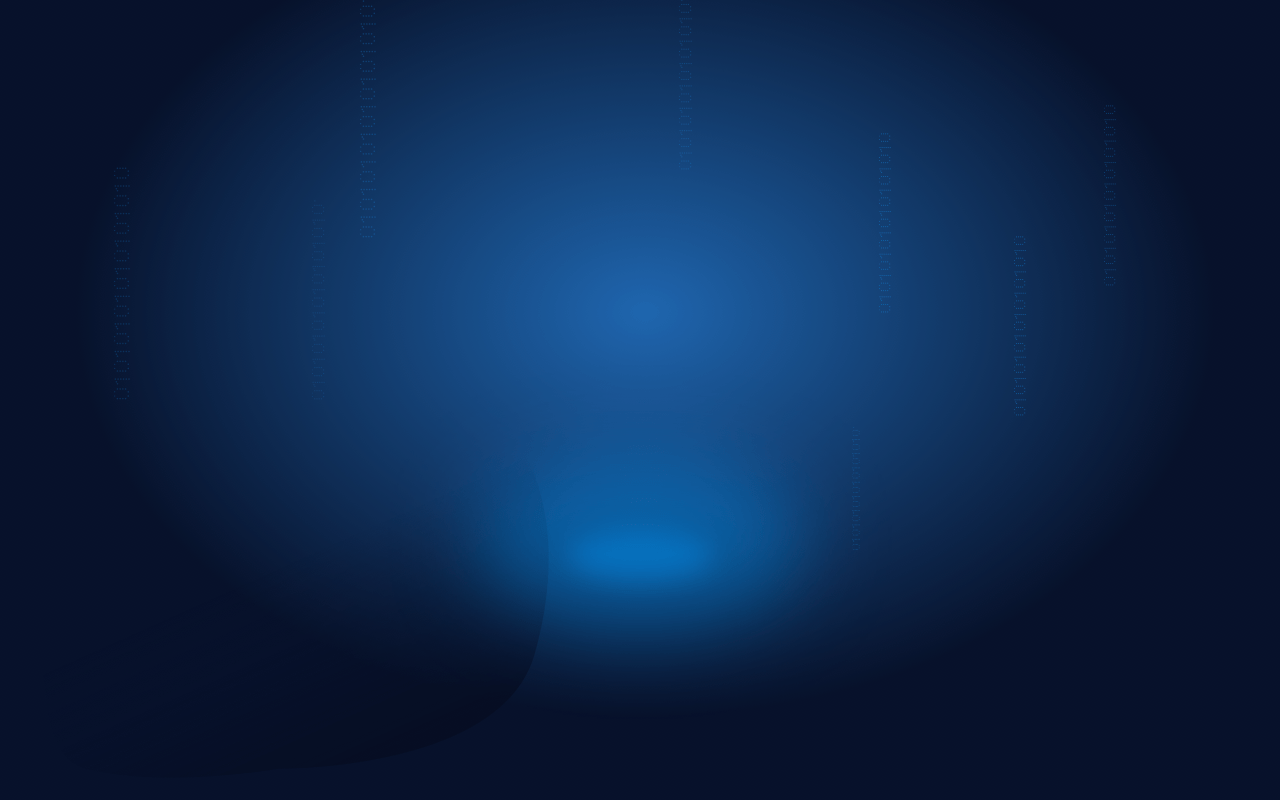
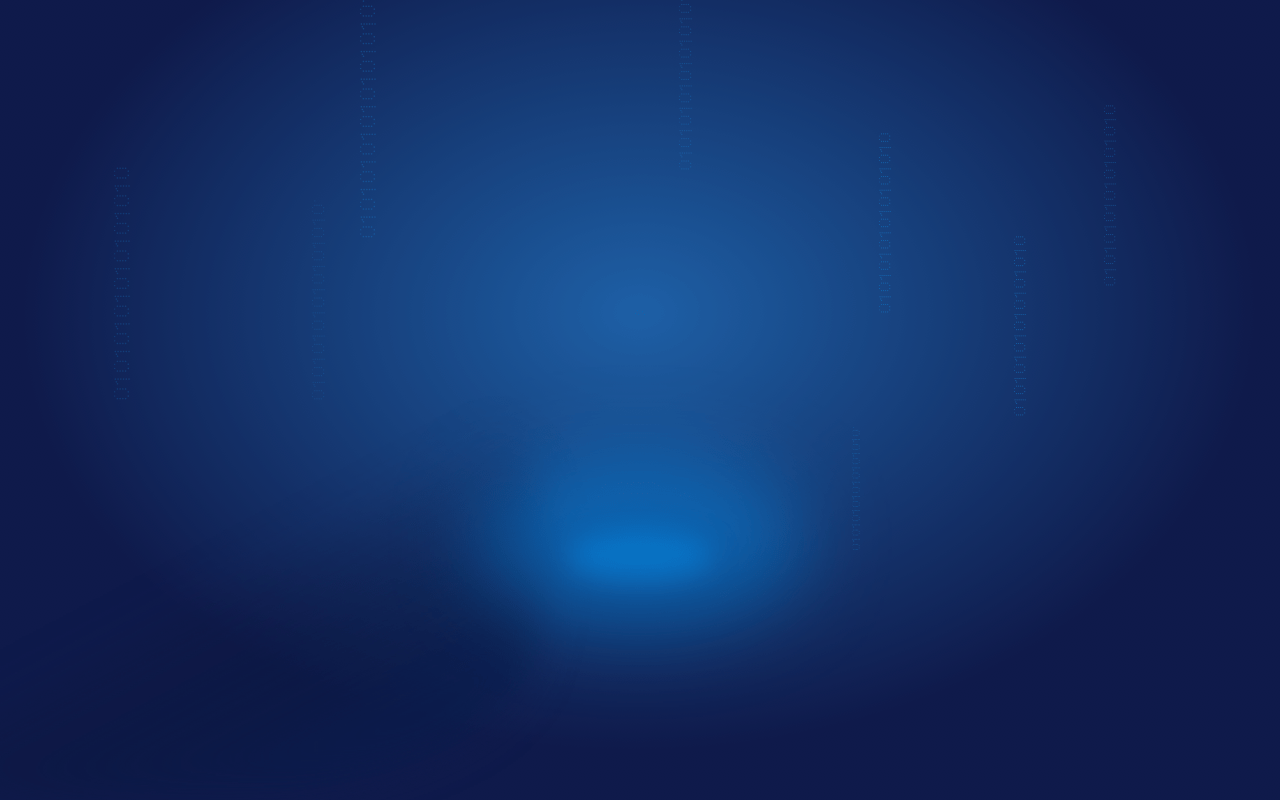
no message

diff --git a/ThreeLogin/js/ThreeLoginBackground.js b/ThreeLogin/js/ThreeLoginBackground.js
@@ -71,17 +71,17 @@ function ThreeLoginBackground($canvas) {
     function getWords(){
 		if(I.words == null){
 			I.words = [
-				{pic: 'login_font_api.svg' },
-				{pic: 'login_font_baojia.svg' },
-				{pic: 'login_font_dizhiku.svg' },
-				{pic: 'login_font_gpsgenzong.svg' },
-				{pic: 'login_font_jiagemoxing.svg' },
-				{pic: 'login_font_kaifangpingtai.svg' },
-				{pic: 'login_font_paidan.svg' },
-				{pic: 'login_font_paixian.svg' },
-				{pic: 'login_font_qiyezhanghu.svg' },
-				{pic: 'login_font_xinyongmoxing.svg' },
-				{pic: 'login_font_zhinengpeizai.svg' }
+				{pic: 'login_font_api.png' },
+				{pic: 'login_font_baojia.png' },
+				{pic: 'login_font_dizhiku.png' },
+				{pic: 'login_font_gpsgenzong.png' },
+				{pic: 'login_font_jiagemoxing.png' },
+				{pic: 'login_font_kaifangpingtai.png' },
+				{pic: 'login_font_paidan.png' },
+				{pic: 'login_font_paixian.png' },
+				{pic: 'login_font_qiyezhanghu.png' },
+				{pic: 'login_font_xinyongmoxing.png' },
+				{pic: 'login_font_zhinengpeizai.png' }
 			];
 		}
         return I.words;
@@ -234,7 +234,7 @@ function ThreeLoginBackground($canvas) {
 				map: map,
 				transparent: true//透明
 			});
-			var geometry = new THREE.PlaneGeometry(0.1, 0.058, 2, 2);
+			var geometry = new THREE.PlaneGeometry(0.1, 0.046, 2, 2);
 
 			var cube = new THREE.Mesh(geometry, material);//将几何形状和材质整合到一个网格中
 			word.cube = cube;
@@ -288,7 +288,7 @@ function ThreeLoginBackground($canvas) {
         I.scene.add(group);
 
 		createDrawLine({
-				imgUrl: 'img/light1.svg',
+				imgUrl: 'img/light1.png',
 				pos:{x: -1,	y: 1.6 }
 			}, function(cube){
 			I.cubeLine11 = cube;
@@ -296,7 +296,7 @@ function ThreeLoginBackground($canvas) {
 		});
 
 		createDrawLine({
-				imgUrl: 'img/light1.svg',
+				imgUrl: 'img/light1.png',
 				pos:{x: -1,	y: -0.5 }
 			}, function(cube){
 			I.cubeLine12 = cube;
@@ -304,7 +304,7 @@ function ThreeLoginBackground($canvas) {
 		});
 
 		createDrawLine({
-				imgUrl: 'img/light1.svg',
+				imgUrl: 'img/light1.png',
 				pos:{x: -0.8,	y: 1.4 }
 			}, function(cube){
 			I.cubeLine21 = cube;
@@ -312,7 +312,7 @@ function ThreeLoginBackground($canvas) {
 		});
 
 		createDrawLine({
-				imgUrl: 'img/light1.svg',
+				imgUrl: 'img/light1.png',
 				pos:{x: -0.8,	y: -0.3 }
 			}, function(cube){
 			I.cubeLine22 = cube;
@@ -320,7 +320,7 @@ function ThreeLoginBackground($canvas) {
 		});
 
 		createDrawLine2({
-				imgUrl: 'img/light2.svg',
+				imgUrl: 'img/light2.png',
 				pos:{x: 0.8,	y: 1.6 }
 			}, function(cube){
 			I.cubeLine31 = cube;
@@ -328,7 +328,7 @@ function ThreeLoginBackground($canvas) {
 		});
 
 		createDrawLine2({
-				imgUrl: 'img/light2.svg',
+				imgUrl: 'img/light2.png',
 				pos:{x: 0.8,	y: -0.5 }
 			}, function(cube){
 			I.cubeLine32 = cube;
@@ -336,7 +336,7 @@ function ThreeLoginBackground($canvas) {
 		});
 
 		createDrawLine2({
-				imgUrl: 'img/light2.svg',
+				imgUrl: 'img/light2.png',
 				pos:{x: 1,	y: -1.4 }
 			}, function(cube){
 			I.cubeLine41 = cube;
@@ -344,7 +344,7 @@ function ThreeLoginBackground($canvas) {
 		});
 
 		createDrawLine2({
-				imgUrl: 'img/light2.svg',
+				imgUrl: 'img/light2.png',
 				pos:{x: 1,	y: -0.3 }
 			}, function(cube){
 			I.cubeLine42 = cube;
@@ -389,15 +389,22 @@ function ThreeLoginBackground($canvas) {
         drawWords();//画转动的文字
 		drawLines();
         
-        
-
-		
-
-
-
-
-
-        
         run();
+
+		document.body.addEventListener('mousemove', onMouseOver);
     };
+
+
+	function setCameraPosition(pos){
+		I.camera.position.setX(pos.x);
+		I.camera.position.setY(pos.y);
+	};
+
+
+	function onMouseOver(e){
+		setCameraPosition({
+			x: (e.clientX / $(document.body).width() - 0.5) / 10,
+			y: -(e.clientY / $(document.body).height() - 0.5) / 10
+		});
+	}
 };

diff --git a/ThreeLogin/index.html b/ThreeLogin/index.html
@@ -9,7 +9,7 @@
 	<script src="js/cuon-matrix.js"></script>
 	<style>
 		.treeloginbackground {
-			background-color: #07112B;
+			background-color: #0F1A4B;
 			text-align: center;
 			height: 1080px;
 		}
